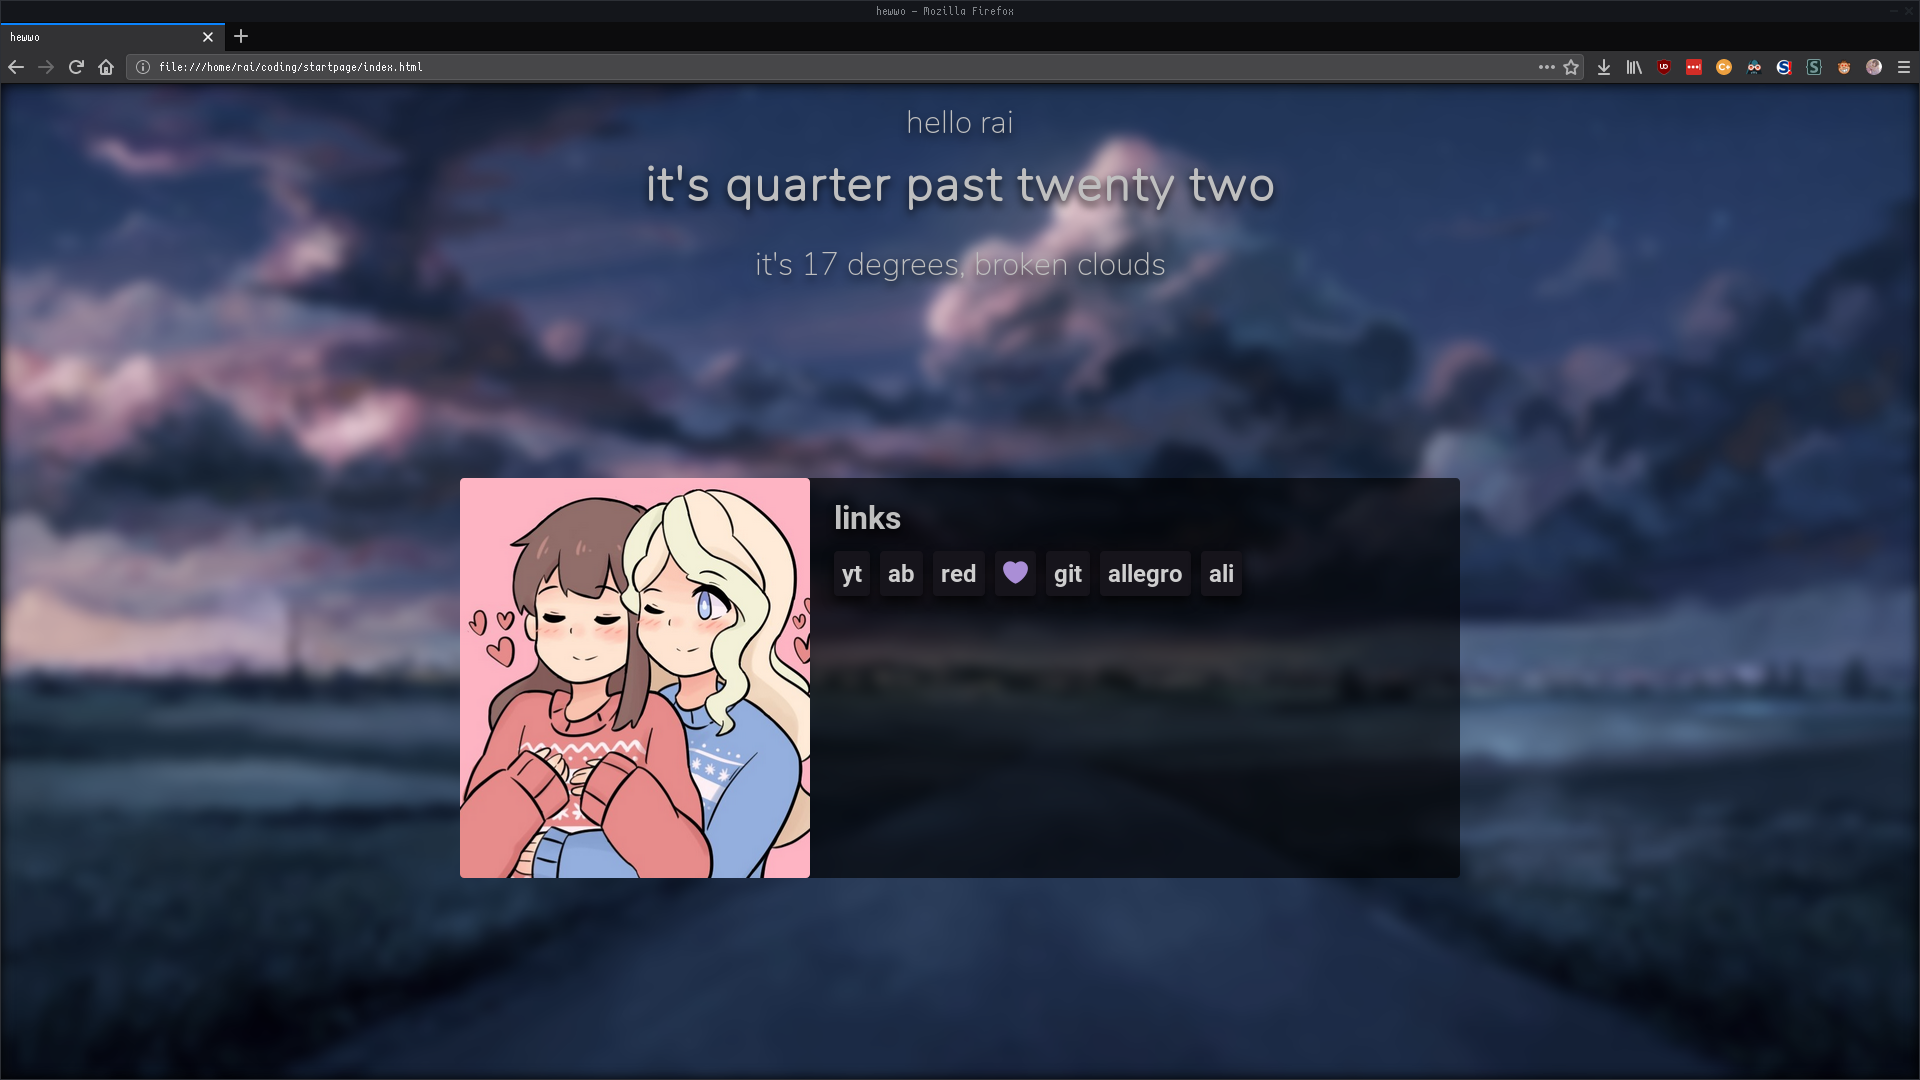
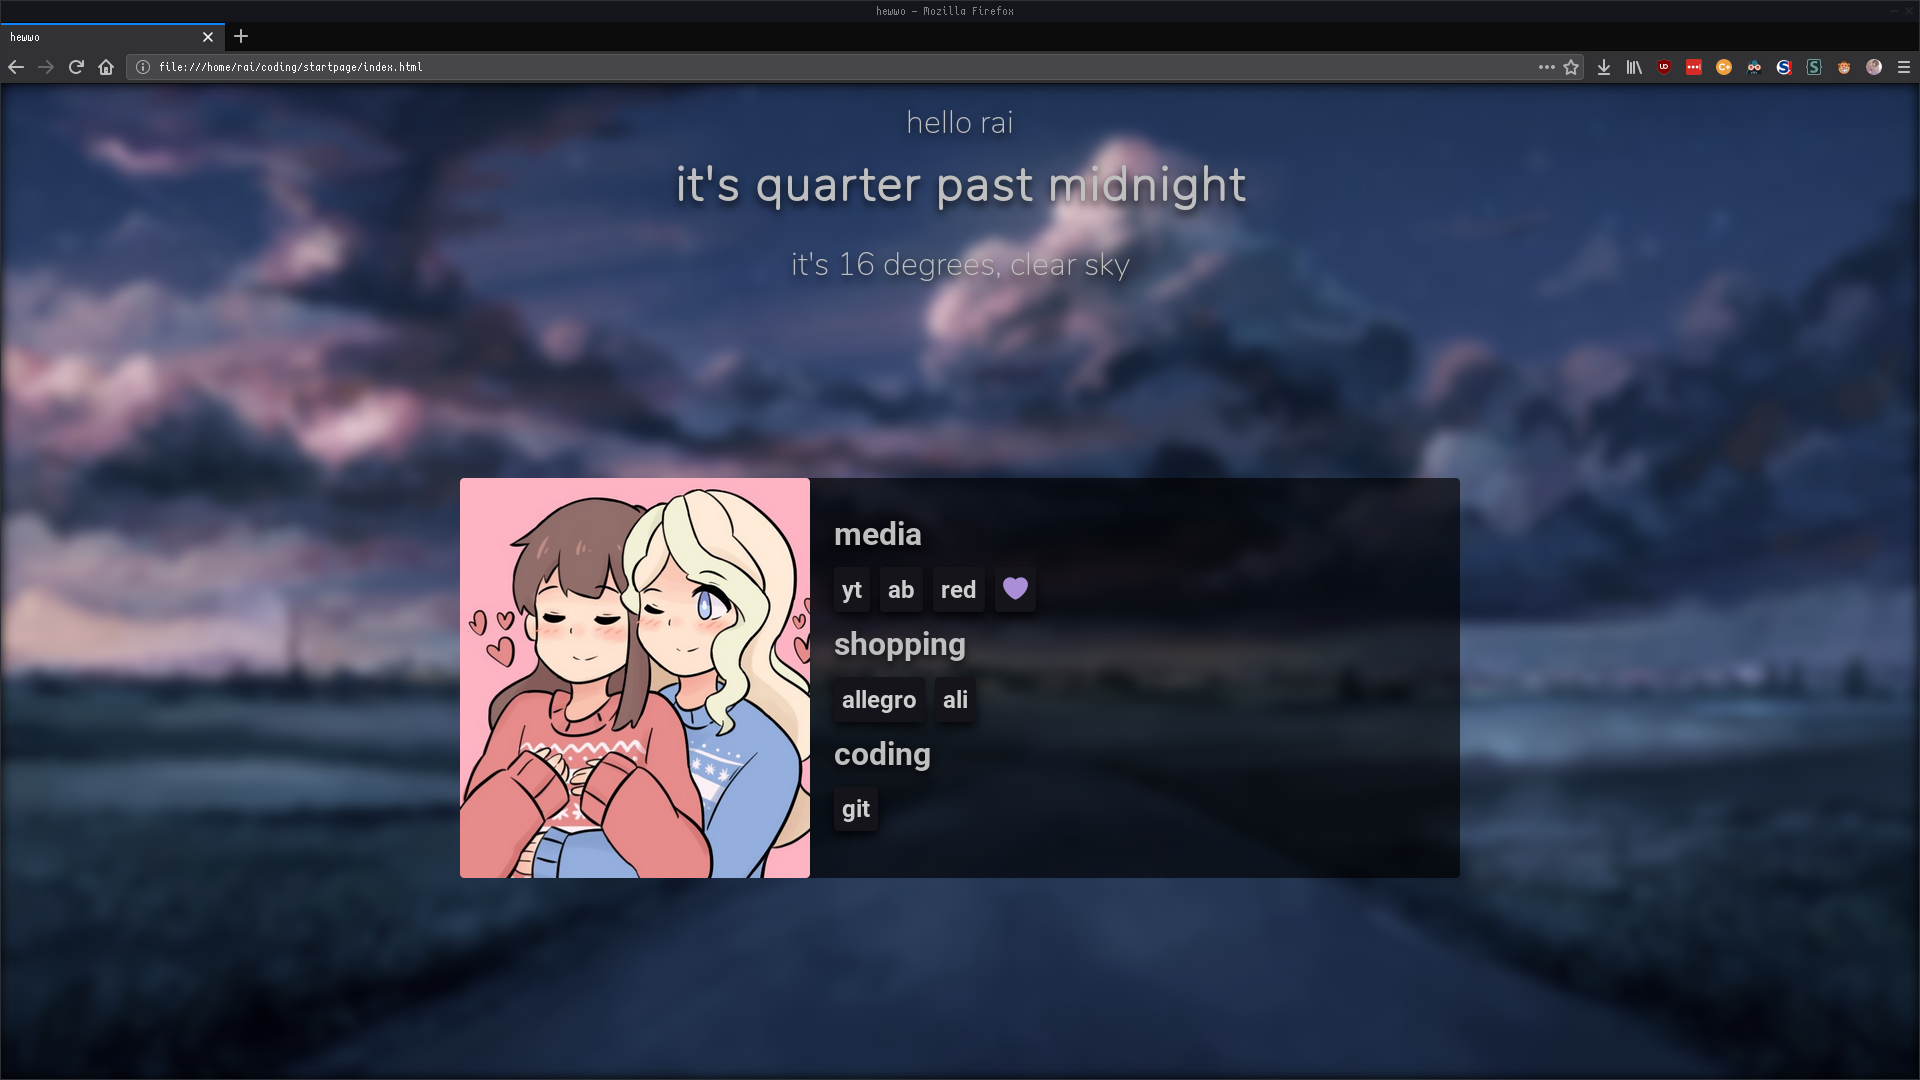
more silly updates

diff --git a/index.html b/index.html
@@ -25,14 +25,16 @@
 			<div id="gridelementimg">
 			</div>
 			<div id="gridelementlinks">
-				<h1>links</h1>
+				<h1>media</h1>
 				<a href="https://youtube.com">yt</a>
 				<a href="https://animebytes.tv">ab</a>
 				<a href="https://redacted.ch">red</a>
 				<a href="https://gelbooru.com">💜</a>
-				<a href="https://github.com/rainyuu">git</a>
+				<h1>shopping</h1>
 				<a href="https://allegro.pl">allegro</a>
 				<a href="https://aliexpress.com">ali</a>
+				<h1>coding</h1>
+				<a href="https://github.com/rainyuu">git</a>
 				</div>
 			</div>
 	</div>

diff --git a/css/style-768p.css b/css/style-768p.css
@@ -97,6 +97,7 @@ body #container * {
 
 #gridelementlinks {
 	margin-left: 24px;
+	margin-top: 16px;
 }
 
 h1 {

diff --git a/css/style.css b/css/style.css
@@ -97,6 +97,7 @@ body #container * {
 
 #gridelementlinks {
 	margin-left: 24px;
+	margin-top: 16px;
 }
 
 h1 {
